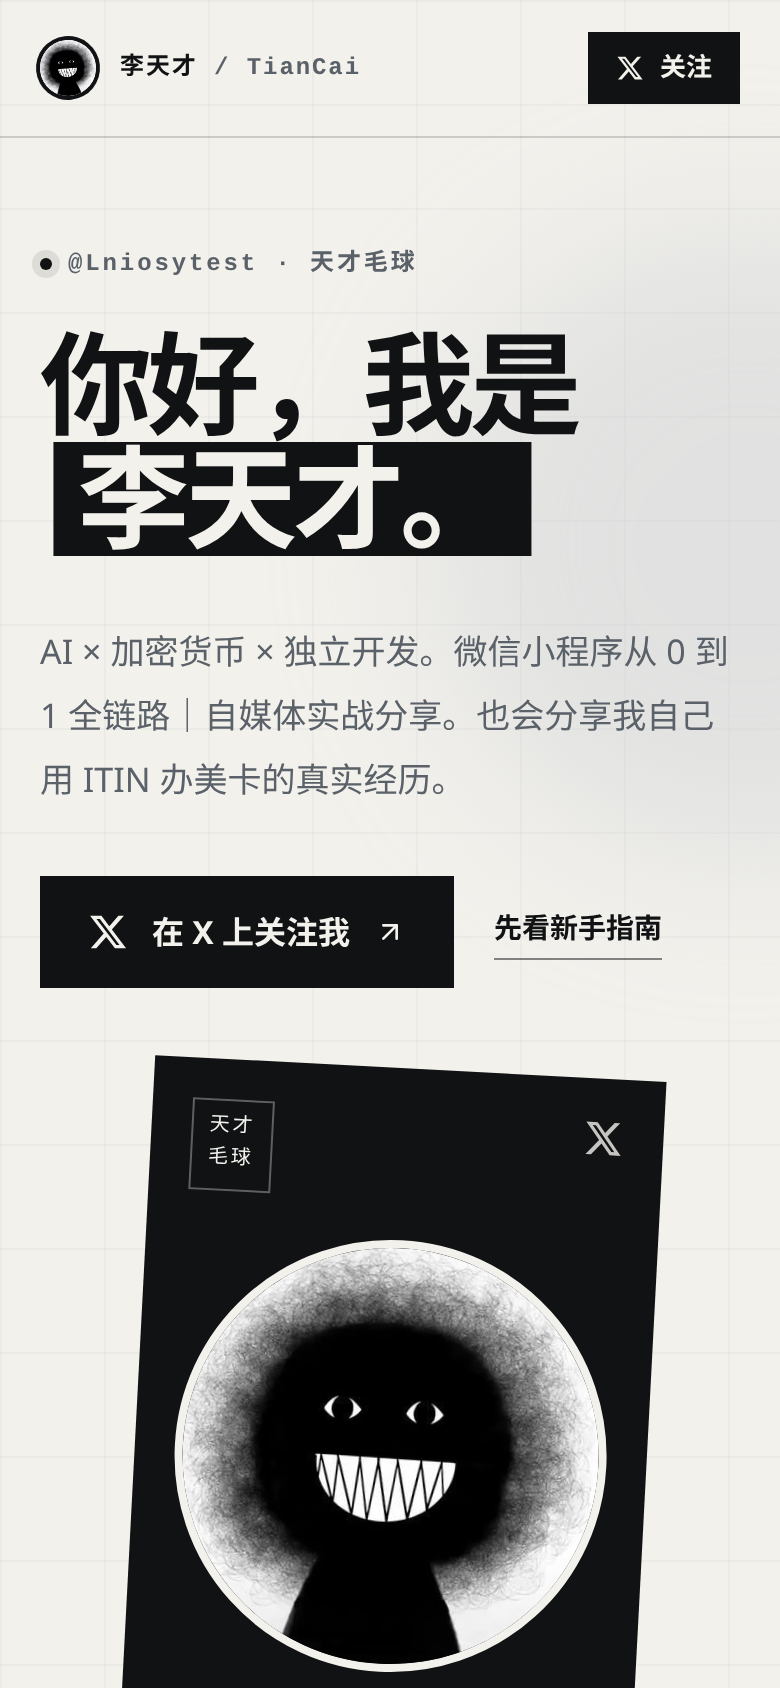
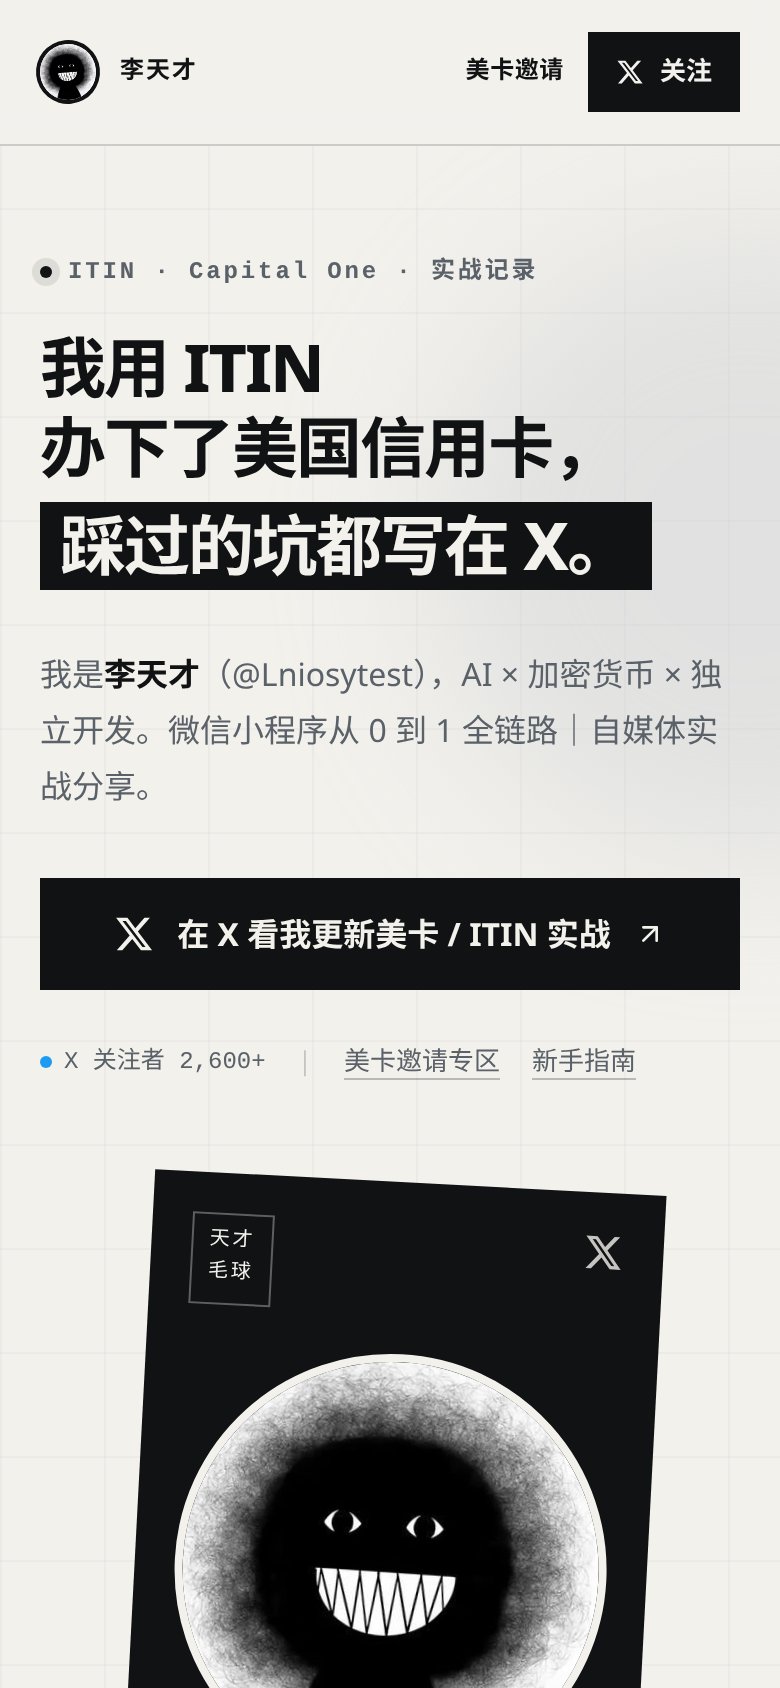
Conversion pass: ITIN hook hero, single X CTA, verified follower count, embedded real tweet, reorder sections, remove placeholder card

diff --git a/app/page.tsx b/app/page.tsx
@@ -1,5 +1,6 @@
 import Image from "next/image";
-import { X_URL, profile, lines, guides } from "@/lib/content";
+import { X_URL, X_FOLLOWERS_LABEL, featuredTweet, profile, lines, guides } from "@/lib/content";
+import TweetEmbed from "@/components/TweetEmbed";
 import Referrals from "@/components/Referrals";
 import { Arrow, XLogo } from "@/components/Icons";
 
@@ -35,27 +36,37 @@ export default function Home() {
         {/* Hero */}
         <section className="grid items-end gap-10 pb-12 pt-12 sm:pt-20 md:grid-cols-[minmax(0,1fr)_240px] md:gap-12 lg:grid-cols-[minmax(0,1fr)_280px] lg:gap-16">
           <div>
-            <p className="mb-6 inline-flex items-center gap-2 font-mono text-xs font-bold tracking-[0.12em] text-muted">
+            <p className="mb-5 inline-flex items-center gap-2 font-mono text-xs font-bold tracking-[0.12em] text-muted">
               <span className="h-1.5 w-1.5 rounded-full bg-ink shadow-[0_0_0_4px_#11121418]" />
-              {profile.handle} · {profile.mascot}
+              ITIN · Capital One · 实战记录
             </p>
-            <h1 className="text-[52px] font-extrabold leading-[1.04] tracking-[-0.04em] sm:text-[76px] md:text-[60px] lg:text-[92px] xl:text-[112px]">
-              你好，我是
+            <h1 className="text-[33px] font-extrabold leading-[1.2] tracking-[-0.03em] min-[400px]:text-[36px] sm:text-[54px] md:text-[44px] lg:text-[62px] xl:text-[70px]">
+              我用 ITIN<span className="hidden sm:inline"> 办下了</span>
               <br />
-              <span className="inline-block translate-x-[0.12em] bg-ink px-3 text-paper">李天才。</span>
+              <span className="sm:hidden">办下了</span>美国信用卡，
+              <br />
+              <span className="mt-2 inline-block bg-ink px-2.5 py-0.5 text-paper sm:px-3">踩过的坑都写在 X。</span>
             </h1>
-            <p className="mt-8 max-w-xl text-[17px] leading-8 text-muted">
-              {profile.bio}。<br className="hidden sm:block" />
-              {profile.bio2}。也会分享我自己用 ITIN 办美卡的真实经历。
+            <p className="mt-7 max-w-xl text-[16px] leading-7 text-muted sm:text-[17px] sm:leading-8">
+              我是<strong className="font-bold text-ink">李天才</strong>（{profile.handle}），{profile.bio}。
+              <br className="hidden sm:block" />
+              {profile.bio2}。
             </p>
-            <div className="mt-8 flex flex-wrap items-center gap-5">
-              <a href={X_URL} {...ext} className="group inline-flex items-center gap-3 bg-ink px-6 py-4 text-base font-bold text-paper transition hover:-translate-y-0.5 hover:shadow-[0_14px_30px_#11121440]">
-                <XLogo className="h-5 w-5" />
-                在 X 上关注我
-                <Arrow className="h-4 w-4 transition group-hover:translate-x-0.5 group-hover:-translate-y-0.5" />
+            <div className="mt-8">
+              <a href={X_URL} {...ext} className="group inline-flex min-h-14 w-full items-center justify-center gap-3 bg-ink px-6 py-4 text-base font-bold text-paper transition hover:-translate-y-0.5 hover:shadow-[0_14px_30px_#11121440] sm:w-auto">
+                <XLogo className="h-5 w-5 shrink-0" />
+                在 X 看我更新美卡 / ITIN 实战
+                <Arrow className="h-4 w-4 shrink-0 transition group-hover:translate-x-0.5 group-hover:-translate-y-0.5" />
               </a>
-              <a href="#referrals" className="inline-flex min-h-11 items-center border-b border-ink/50 text-sm font-bold hover:border-ink">美卡邀请专区 ↓</a>
-              <a href="#guides" className="inline-flex min-h-11 items-center border-b border-ink/30 text-sm font-bold text-muted hover:border-ink hover:text-ink">新手指南</a>
+              <div className="mt-4 flex flex-wrap items-center gap-x-4 gap-y-1 text-[13px] text-muted">
+                {/* 关注者数来源见 lib/content.ts 注释 */}
+                <span className="inline-flex items-center gap-1.5 font-mono text-xs">
+                  <span className="h-1.5 w-1.5 rounded-full bg-[#1d9bf0]" />X 关注者 {X_FOLLOWERS_LABEL}
+                </span>
+                <span aria-hidden className="text-ink/20">|</span>
+                <a href="#referrals" className="inline-flex min-h-10 items-center underline decoration-ink/25 underline-offset-4 hover:text-ink hover:decoration-ink">美卡邀请专区</a>
+                <a href="#guides" className="inline-flex min-h-10 items-center underline decoration-ink/25 underline-offset-4 hover:text-ink hover:decoration-ink">新手指南</a>
+              </div>
             </div>
           </div>
 
@@ -85,7 +96,7 @@ export default function Home() {
               <div>
                 <p className="font-mono text-xs tracking-[0.14em] text-paper/60">主要阵地 · X</p>
                 <h2 className="mt-1 text-2xl font-extrabold tracking-tight sm:text-3xl">关注我 on X</h2>
-                <p className="mt-1 text-sm text-paper/70">美卡 / ITIN、AI、独立开发与小程序的更新，都会第一时间发在 X。</p>
+                <p className="mt-1 text-sm text-paper/70">美卡 / ITIN、AI、独立开发与小程序的更新，都会第一时间发在 X · {X_FOLLOWERS_LABEL} 人在看。</p>
               </div>
             </div>
             <span className="inline-flex items-center justify-center gap-2 self-start bg-paper px-5 py-3 text-sm font-bold text-ink sm:self-auto">
@@ -94,8 +105,24 @@ export default function Home() {
           </a>
         </section>
 
-        {/* Referral zone */}
-        <Referrals />
+        {/* Latest real tweet */}
+        <section aria-labelledby="tweet-title" className="pb-16">
+          <div className="grid items-center gap-8 border border-line bg-[#fffffcb3] p-6 sm:p-8 lg:grid-cols-[minmax(0,1fr)_minmax(0,550px)] lg:gap-12 lg:p-10">
+            <div>
+              <p className="font-mono text-xs font-bold tracking-[0.14em] text-muted">来自我的 X · 正在进行</p>
+              <h2 id="tweet-title" className="mt-2 text-2xl font-extrabold leading-snug tracking-tight [text-wrap:balance] sm:text-3xl">
+                从 300 分往上爬，<br />我每一步都发出来。
+              </h2>
+              <p className="mt-3 max-w-md text-sm leading-6 text-muted">ITIN → Capital One → 等首期账单上报 → 建立信用记录。想看后续，就在 X 上跟着我。</p>
+              <a href={featuredTweet.url} {...ext} className="mt-5 inline-flex min-h-11 items-center gap-2 border-b border-ink/40 text-sm font-bold hover:border-ink">
+                在 X 上看原帖和评论 <Arrow className="h-3.5 w-3.5" />
+              </a>
+            </div>
+            <div className="flex justify-center lg:justify-end">
+              <TweetEmbed url={featuredTweet.url} text={featuredTweet.text} date={featuredTweet.date} />
+            </div>
+          </div>
+        </section>
 
         {/* Lines */}
         <section id="lines" className="scroll-mt-20 pb-16">
@@ -104,7 +131,7 @@ export default function Home() {
               <p className="font-mono text-xs font-bold tracking-[0.14em] text-muted">我在做什么</p>
               <h2 className="mt-2 text-3xl font-extrabold tracking-tight sm:text-4xl">四条内容线</h2>
             </div>
-            <p className="max-w-sm text-sm leading-6 text-muted">点击卡片会在新标签页打开我的 X 主页，相关内容都在那里持续更新。</p>
+            <p className="max-w-sm text-sm leading-6 text-muted">美卡 / ITIN 直达下方邀请专区，其余内容都在我的 X 上持续更新。</p>
           </div>
           <div className="grid gap-4 sm:grid-cols-2 lg:grid-cols-4">
             {lines.map((l, i) => (
@@ -159,10 +186,15 @@ export default function Home() {
               </a>
             ))}
           </div>
-          <p className="mt-6 border border-dashed border-line p-4 text-xs leading-5 text-muted">
-            说明：本站内容为个人经验分享，不构成任何金融、税务或法律建议。本站不是银行或金融机构；信用卡、ITIN 等申请条件与结果以官方机构为准。
-          </p>
         </section>
+
+        {/* Referral zone */}
+        <Referrals />
+
+        {/* Disclaimer */}
+        <p className="mb-12 border border-dashed border-line p-4 text-xs leading-5 text-muted">
+          说明：本站内容为个人经验分享，不构成任何金融、税务或法律建议。本站不是银行或金融机构；信用卡、ITIN 等申请条件与结果以官方机构为准。部分链接为我的邀请链接。
+        </p>
       </div>
 
       {/* Footer */}

diff --git a/components/Referrals.tsx b/components/Referrals.tsx
@@ -1,7 +1,7 @@
 /* eslint-disable @next/next/no-img-element */
-import { referrals, referralGroups, referralDisclosure, X_URL, type Referral } from "@/lib/content";
+import { referrals, referralGroups, referralDisclosure, type Referral } from "@/lib/content";
 import CopyCode from "./CopyCode";
-import { Arrow, Check, XLogo } from "./Icons";
+import { Arrow, Check } from "./Icons";
 
 const sponsored = { target: "_blank", rel: "noopener sponsored" } as const;
 
@@ -209,29 +209,6 @@ function ReferralCard({ r, index }: { r: Referral; index: number }) {
   );
 }
 
-function ComingSoon() {
-  return (
-    <a href={X_URL} target="_blank" rel="noopener noreferrer" className="group flex h-full flex-col items-start justify-between gap-5 border border-dashed border-ink/30 bg-transparent p-5 transition hover:border-ink/60 hover:bg-white/50 sm:flex-row sm:items-center sm:p-6">
-      <div className="flex flex-col gap-5 sm:flex-row sm:items-center">
-        <div className="flex shrink-0 -space-x-2" aria-hidden>
-          {["Amex", "Chase", "Citi"].map((n, i) => (
-            <span key={n} className="grid h-11 w-16 place-items-center rounded-md border border-ink/20 bg-paper font-mono text-[10px] font-bold text-ink/40 shadow-sm" style={{ transform: `rotate(${(i - 1) * 6}deg)` }}>
-              {n}
-            </span>
-          ))}
-        </div>
-        <div>
-          <h3 className="text-lg font-extrabold">更多卡片邀请陆续添加</h3>
-          <p className="mt-1 text-sm leading-6 text-muted">其他卡和账户的入口整理好后会放在这里，新增时会在 X 上同步。</p>
-        </div>
-      </div>
-      <span className="inline-flex min-h-11 shrink-0 items-center gap-2 whitespace-nowrap text-sm font-bold">
-        <XLogo className="h-3.5 w-3.5" /> 在 X 上关注更新 <Arrow className="h-3.5 w-3.5" />
-      </span>
-    </a>
-  );
-}
-
 function GroupLabel({ label, count }: { label: string; count: number }) {
   return (
     <div className="mb-3 flex items-center gap-3">
@@ -251,7 +228,7 @@ export default function Referrals() {
   const others = referralGroups.filter((g) => g.id !== "bank").map((g) => ({ ...g, items: referrals.filter((r) => r.group === g.id) })).filter((g) => g.items.length);
 
   return (
-    <section id="referrals" aria-labelledby="referrals-title" className="scroll-mt-20 pb-16">
+    <section id="referrals" aria-labelledby="referrals-title" className="scroll-mt-20 pb-10">
       <div className="mb-6 flex flex-col justify-between gap-3 border-t border-line pt-8 sm:flex-row sm:items-end">
         <div>
           <p className="font-mono text-xs font-bold tracking-[0.14em] text-muted">美卡 / 账户 / 工具 · 我的邀请入口</p>
@@ -307,10 +284,6 @@ export default function Referrals() {
             </div>
           </div>
         ))}
-      </div>
-
-      <div className="mt-4">
-        <ComingSoon />
       </div>
     </section>
   );

diff --git a/components/TweetEmbed.tsx b/components/TweetEmbed.tsx
@@ -1,0 +1,70 @@
+"use client";
+
+import { useEffect, useRef, useState } from "react";
+
+declare global {
+  interface Window {
+    twttr?: { widgets?: { load: (el?: HTMLElement) => void } };
+  }
+}
+
+/**
+ * 官方 X 嵌入：先渲染纯文本 blockquote（无 JS / 加载失败时就是普通引用卡片），
+ * 滚动到附近时才加载 platform.twitter.com/widgets.js，再升级为官方卡片。
+ */
+export default function TweetEmbed({ url, text, date }: { url: string; text: string; date: string }) {
+  const ref = useRef<HTMLDivElement>(null);
+  const [upgraded, setUpgraded] = useState(false);
+
+  useEffect(() => {
+    const el = ref.current;
+    if (!el) return;
+    const load = () => {
+      const done = () => {
+        window.twttr?.widgets?.load(el);
+        // 官方卡片渲染成功后会插入 iframe
+        const t = window.setInterval(() => {
+          if (el.querySelector("iframe")) {
+            setUpgraded(true);
+            window.clearInterval(t);
+          }
+        }, 300);
+        window.setTimeout(() => window.clearInterval(t), 10000);
+      };
+      if (window.twttr?.widgets) return done();
+      const s = document.createElement("script");
+      s.src = "https://platform.twitter.com/widgets.js";
+      s.async = true;
+      s.charset = "utf-8";
+      s.onload = done;
+      document.body.appendChild(s);
+    };
+    const io = new IntersectionObserver(
+      (entries) => {
+        if (entries.some((e) => e.isIntersecting)) {
+          io.disconnect();
+          load();
+        }
+      },
+      { rootMargin: "400px" },
+    );
+    io.observe(el);
+    return () => io.disconnect();
+  }, []);
+
+  return (
+    <div ref={ref} className={`tweet-embed w-full max-w-[550px] ${upgraded ? "" : "min-h-[200px]"}`}>
+      <blockquote className="twitter-tweet" data-dnt="true" data-lang="zh-cn" data-conversation="none">
+        <div className="border border-line bg-white p-5 text-[15px] leading-7 text-ink">
+          <p className="whitespace-pre-line" lang="zh">{text}</p>
+          <p className="mt-3 font-mono text-xs text-muted">
+            — 李天才 (@Lniosytest){" "}
+            <a href={url} target="_blank" rel="noopener noreferrer" className="underline hover:text-ink">
+              {date}
+            </a>
+          </p>
+        </div>
+      </blockquote>
+    </div>
+  );
+}

diff --git a/lib/content.ts b/lib/content.ts
@@ -6,6 +6,17 @@ export const X_URL = "https://x.com/Lniosytest";
 // TODO: 上线后替换为正式域名（用于 OG / canonical）
 export const SITE_URL = "https://litiancai.vercel.app";
 
+// 关注者数：2026-10-04 17:22 (UTC+8) 从 https://api.fxtwitter.com/Lniosytest 读取 followers=2642，向下取整展示。
+// 更新时重新核对，不要凭空填数。
+export const X_FOLLOWERS_LABEL = "2,600+";
+
+// 嵌入的真实推文（2026-10-04 从 api.fxtwitter.com 读取，原文照录）
+export const featuredTweet = {
+  url: "https://x.com/Lniosytest/status/2106623293746971005",
+  date: "2026年10月4日",
+  text: "拿到 ITIN 以后，我打给 Equifax 建了信用档案。\n查出来 300 分。\n\n不是我信用差，是一条记录都没有，美国银行眼里我就是张白纸。\n9/29 开了 C1，现在等第一期账单报上去。\n从 300 分往上爬，我每一步都发出来。",
+};
+
 export const profile = {
   name: "李天才",
   nameEn: "TianCai",
@@ -96,9 +107,9 @@ export const guides: Guide[] = [
   },
   {
     tag: "美卡入门",
-    title: "用 ITIN 申请 Capital One 的个人记录",
-    desc: "以我自己的申请经历为例，分享流程和心得，仅供参考。",
-    href: X_URL,
+    title: "新 ITIN 下号后：C1 → Equifax → X Money 踩坑记录",
+    desc: "我自己走过的路线：C1 激活、等首期账单上报、Equifax 建档，一条说清。",
+    href: "https://x.com/Lniosytest/status/2105998264612897199",
   },
   {
     tag: "独立开发",
